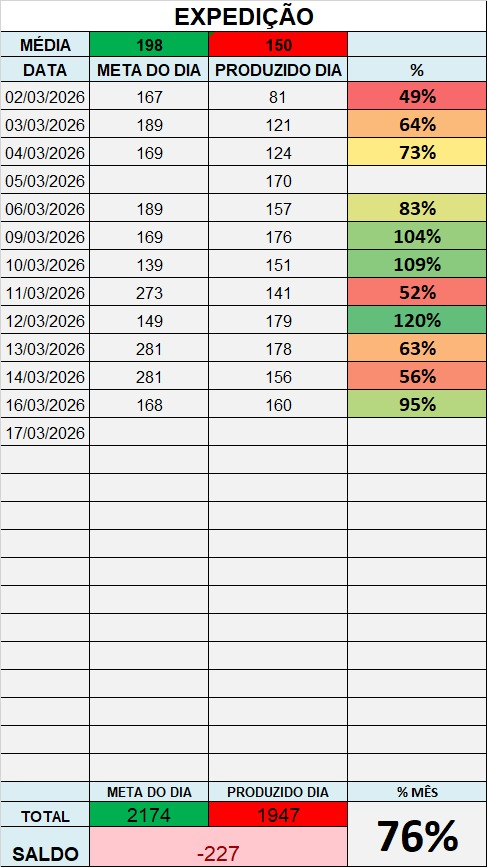
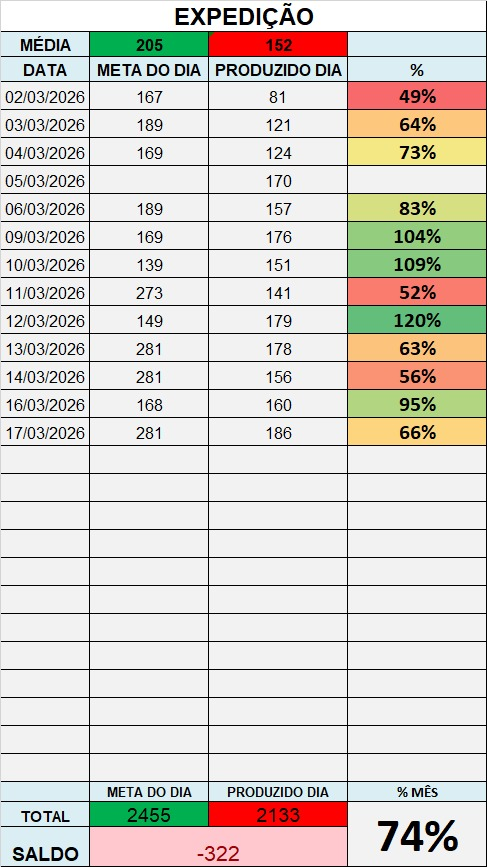
~~

diff --git a/back__incial.js b/back__incial.js
@@ -550,7 +550,7 @@ const unidades = {
             { data: "13/03/2026", captura: ["capturas/Unidade 2/Estofaria/2026/03-MARÇO/13pt1.jpg", "capturas/Unidade 2/Estofaria/2026/03-MARÇO/13pt2.jpg", "capturas/Unidade 2/Estofaria/2026/03-MARÇO/13pt3.jpg", "capturas/Unidade 2/Estofaria/2026/03-MARÇO/13pt4.jpg"] },
             { data: "14/03/2026", captura: ["capturas/Unidade 2/Estofaria/2026/03-MARÇO/14pt1.jpg", "capturas/Unidade 2/Estofaria/2026/03-MARÇO/14pt2.jpg", "capturas/Unidade 2/Estofaria/2026/03-MARÇO/14pt3.jpg", "capturas/Unidade 2/Estofaria/2026/03-MARÇO/14pt4.jpg"] },
             { data: "16/03/2026", captura: ["capturas/Unidade 2/Estofaria/2026/03-MARÇO/16pt1.jpg", "capturas/Unidade 2/Estofaria/2026/03-MARÇO/16pt2.jpg", "capturas/Unidade 2/Estofaria/2026/03-MARÇO/16pt3.jpg", "capturas/Unidade 2/Estofaria/2026/03-MARÇO/16pt4.jpg"] },
-
+            { data: "17/03/2026", captura: ["capturas/Unidade 2/Estofaria/2026/03-MARÇO/17pt1.jpg", "capturas/Unidade 2/Estofaria/2026/03-MARÇO/17pt2.jpg", "capturas/Unidade 2/Estofaria/2026/03-MARÇO/17pt3.jpg", "capturas/Unidade 2/Estofaria/2026/03-MARÇO/17pt4.jpg"] },
 
             
 
@@ -764,9 +764,8 @@ const unidades = {
             { data: "13/03/2026", captura: ["capturas/Unidade 2/Acabamento/2026/03-MARÇO/13Pt1.jpg", "capturas/Unidade 2/Acabamento/2026/03-MARÇO/13Pt2.jpg"] },
             { data: "14/03/2026", captura: ["capturas/Unidade 2/Acabamento/2026/03-MARÇO/14Pt1.jpg", "capturas/Unidade 2/Acabamento/2026/03-MARÇO/14Pt2.jpg"] },
             { data: "16/03/2026", captura: ["capturas/Unidade 2/Acabamento/2026/03-MARÇO/16Pt1.jpg", "capturas/Unidade 2/Acabamento/2026/03-MARÇO/16Pt2.jpg"] },
-
-
-
+            { data: "17/03/2026", captura: ["capturas/Unidade 2/Acabamento/2026/03-MARÇO/17 Pt1.jpg", "capturas/Unidade 2/Acabamento/2026/03-MARÇO/17 Pt2.jpg"] },
+            
 
 
             // { data: "", captura: ["", ""] },
@@ -915,6 +914,7 @@ const unidades = {
             { data: "13/03/2026", captura: ["capturas/Unidade 4/Usinagem/2026/Calibradora/MARÇO/13.jpg"] },
             { data: "14/03/2026", captura: ["capturas/Unidade 4/Usinagem/2026/Calibradora/MARÇO/14.jpg"] },
             { data: "16/03/2026", captura: ["capturas/Unidade 4/Usinagem/2026/Calibradora/MARÇO/16.jpg"] },
+            { data: "17/03/2026", captura: ["capturas/Unidade 4/Usinagem/2026/Calibradora/MARÇO/17.jpg"] },
 
 
             // { data: "", captura: [""] },
@@ -1020,6 +1020,7 @@ const unidades = {
             { data: "13/03/2026", captura: ["capturas/Unidade 4/Usinagem/2026/Prensas/MARÇO/13.jpg"] },
             { data: "14/03/2026", captura: ["capturas/Unidade 4/Usinagem/2026/Prensas/MARÇO/14.jpg"] },
             { data: "16/03/2026", captura: ["capturas/Unidade 4/Usinagem/2026/Prensas/MARÇO/16.jpg"] },
+            { data: "17/03/2026", captura: ["capturas/Unidade 4/Usinagem/2026/Prensas/MARÇO/17.jpg"] },
 
 
              // { data: "", captura: [""] },
@@ -1552,6 +1553,8 @@ const unidades = {
             { data: "13/03/2026", captura: ["capturas/Unidade 4/Tempo_parado/2026/MARÇO/MAQUIMOVEL 13.jpg", "capturas/Unidade 4/Tempo_parado/2026/MARÇO/ITALPRESSE 13.jpg", "capturas/Unidade 4/Tempo_parado/2026/MARÇO/HOME 13.jpg"] },
             { data: "14/03/2026", captura: ["capturas/Unidade 4/Tempo_parado/2026/MARÇO/14 MAQUIMOVEL.jpg", "capturas/Unidade 4/Tempo_parado/2026/MARÇO/14 ITALPRESSE.jpg", "capturas/Unidade 4/Tempo_parado/2026/MARÇO/14 HOME.jpg"] },
             { data: "16/03/2026", captura: ["capturas/Unidade 4/Tempo_parado/2026/MARÇO/16 HOME.jpg", "capturas/Unidade 4/Tempo_parado/2026/MARÇO/16 ITALPRESSE.jpg", "capturas/Unidade 4/Tempo_parado/2026/MARÇO/16 MAQUIMOVEL.jpg"] },
+            { data: "17/03/2026", captura: ["capturas/Unidade 4/Tempo_parado/2026/MARÇO/17 MAQUIMOVEL.jpg", "capturas/Unidade 4/Tempo_parado/2026/MARÇO/17 ITALPRESSE.jpg", "capturas/Unidade 4/Tempo_parado/2026/MARÇO/17 HOME.jpg"] },
+
 
             
             // { data: "", captura: ["", "", ""] },
